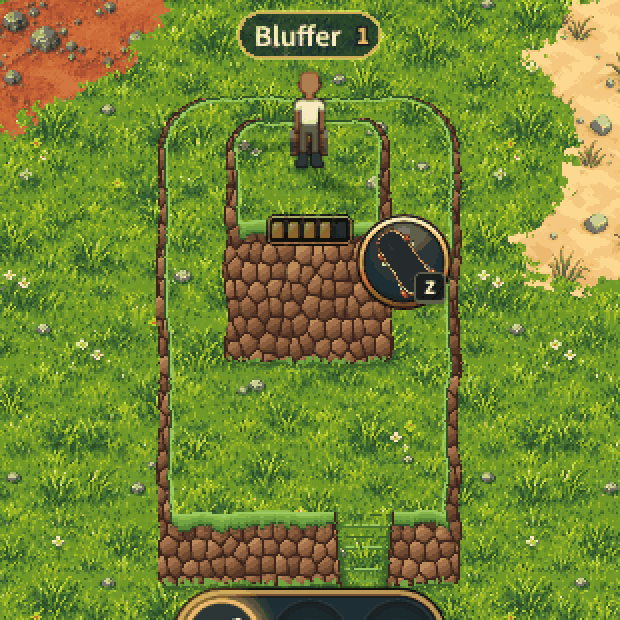
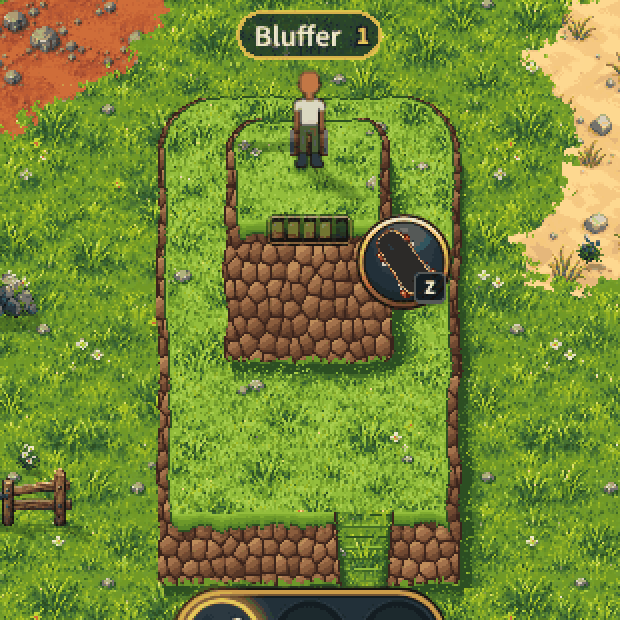
v2.3.4471: the Town Bluff's top lit, and the shade it casts (the owner: "it looks like it's a transparent on top")
The first grass ledge painted nothing on its top, so the top was the same
tone as the grass below it and read as see-through.  Now:
- risePaint takes most of a hill top's GRASS pixels up a tone (HILL_LIFT:
  7 blades in 10 on a rise on the ground, nearly all on one standing on
  another), in the commons grass's own measured tones.  Flowers and stones
  stay; the darkest tufts stay.
- hillCast: the hill casts shade on the lower ground east of it (up to
  26 px), and the foot's shade is 22 px and thicker.
- where a hill's face or rim draws nothing, the rise under it goes on
  (the ledge stands on the terrace's lit top).
No colour outside RISE_PALETTE: a piece of ground stays colour numbers.

Claude-Session: https://claude.ai/code/session_01LccHaiVDemmhEbxAJ4B2S9

diff --git a/public/tools/world/core/rises.js b/public/tools/world/core/rises.js
@@ -74,7 +74,10 @@ export function riseLayout(plan) {
     } else continue;
     const x0 = ox + rs.box[0], y0 = oy + rs.box[1], x1 = ox + rs.box[2], y1 = oy + rs.box[3];
     const face = rs.face | 0;
-    list.push({ id: rs.id, name: rs.name || rs.id, islet: where, look: rs.look || null, keepOut: rs.keepOut | 0, round: rs.round | 0, k: list.length,
+    /* v2.3.4471: how many rises up it stands (1 on the ground, 2 on another's top): a hill's top is lit
+       more the higher it is (risePaint's lift) */
+    const level = 1 + list.filter((q) => q.x0 <= x0 && q.y0 <= y0 && q.x1 >= x1 && q.y1 >= y1).length;
+    list.push({ id: rs.id, name: rs.name || rs.id, islet: where, level, look: rs.look || null, keepOut: rs.keepOut | 0, round: rs.round | 0, k: list.length,
       x0, y0, x1, y1, faceY0: y1 - face, face, h: face * cellG,
       climb: rs.climb ? { x0: ox + rs.climb[0], x1: ox + rs.climb[1] } : null,
       ramp: rs.ramp ? { x0: ox + rs.ramp[0], x1: ox + rs.ramp[1] } : null,
@@ -166,9 +169,13 @@ export const RISE_PALETTE = Object.freeze({
      every outline), under a thick cap of the commons' own short green grass (#86b94f) with its dark
      edge, and the shade it throws on the grass at its foot -- not the sea's dark rock */
   boulder: Object.freeze([[58, 36, 28], [86, 55, 39], [112, 73, 49], [138, 93, 61], [163, 114, 76], [188, 140, 96]]),
-  grass: Object.freeze([[70, 112, 46], [92, 140, 56], [114, 164, 66], [134, 185, 79], [156, 202, 96]]),
-  grassEdge: [48, 82, 38],
-  shade: Object.freeze([[62, 100, 42], [80, 122, 52]]),
+  /* (the grass's tones measured off the commons as the game lays it -- its body about (110, 152, 40), its
+     dark tufts (74, 115, 49) and (44, 78, 34) -- so the cap, the lit top and the shade are that grass's) */
+  grass: Object.freeze([[70, 112, 40], [88, 134, 40], [108, 152, 42], [128, 172, 48], [148, 190, 60]]),
+  grassEdge: [44, 78, 34],
+  /* v2.3.4471: the brightest blade of a hill's top, which stands in the light (risePaint's lift) */
+  grassLit: [168, 206, 78],
+  shade: Object.freeze([[44, 78, 34], [68, 108, 40]]),
 });
 
 const pick = (arr, v) => arr[Math.max(0, Math.min(arr.length - 1, Math.floor(v * arr.length)))];
@@ -189,14 +196,14 @@ export function risePaint(plan, data, ow, oh, X0, Y0, K, opts = {}) {
   const gxa = (X0 - F.x0) * wpa, gya = (Y0 - F.y0) * wpa;
   const gxb = gxa + (ow / K) * wpa, gyb = gya + (oh / K) * wpa;
   const LIFT = 34;   /* the chest and the lip draw a little above their cells */
-  const BELOW = 22;   /* v2.3.4462: a hill's shade falls a little below its foot */
-  if (gxb < L.x0 * c || gxa > (L.x0 + L.w) * c || gyb < L.y0 * c - LIFT || gya > (L.y0 + L.h) * c + BELOW) return 0;
+  const BELOW = 34;   /* v2.3.4462: a hill's shade falls a little below its foot */
+  if (gxb < L.x0 * c || gxa > (L.x0 + L.w) * c + HILL.CAST || gyb < L.y0 * c - LIFT || gya > (L.y0 + L.h) * c + BELOW) return 0;
   /* v2.3.4456: ...and near one rise in particular -- the grid is ONE box over every rise, and with a
      rise by the town and two on the islet that box is a strip a quarter of the Wheel long: a piece in it
      but near no rise has nothing to paint, and must not ask every pixel */
   let near = false;
   for (const r of L.list) {
-    if (gxb >= r.x0 * c && gxa <= r.x1 * c && gyb >= r.y0 * c - LIFT && gya <= r.y1 * c + BELOW) { near = true; break; }
+    if (gxb >= r.x0 * c && gxa <= r.x1 * c + HILL.CAST && gyb >= r.y0 * c - LIFT && gya <= r.y1 * c + BELOW) { near = true; break; }
   }
   if (!near) return 0;
   let n = 0;
@@ -207,7 +214,20 @@ export function risePaint(plan, data, ow, oh, X0, Y0, K, opts = {}) {
     for (let px = 0; px < ow; px++) {
       const gx = gxa + (px + 0.5) * step;
       const rgb = riseColour(L, gx, gy, seed);
-      if (rgb) set((py * ow + px) * 4, rgb);
+      if (!rgb) continue;
+      const o = (py * ow + px) * 4;
+      if (rgb.lift === undefined) { set(o, rgb); continue; }
+      /* v2.3.4471: A HILL'S TOP, LIT.  The owner, of the first grass ledge: "there's something wrong with
+         the grass on top.  It looks like it's a transparent on top of the elevated surface.  It needs
+         shadowing or something to look like a raised surface."  The top was the ground as laid, to the
+         pixel: the same tone as the grass below it.  It is still that ground (its flowers, its stones:
+         only a GRASS pixel is touched) with a share of its blades -- `lift`, more on a higher rise --
+         taken up a tone, three px tall each: raised ground standing in the light, against the shade it
+         throws below (hillCast).  No colour but the rises' own: a piece stays colour numbers. */
+      const G0 = data[o + 1];
+      if (G0 > data[o] + 10 && G0 > data[o + 2] + 10 && hash2(Math.floor(gx), Math.floor(gy / 3), seed + 91) < rgb.lift) {
+        if (G0 >= 100) set(o, G0 < 125 ? RISE_PALETTE.grass[2] : G0 < 140 ? RISE_PALETTE.grass[3] : G0 < 162 ? RISE_PALETTE.grass[4] : RISE_PALETTE.grassLit);   /* (its darkest tufts stay) */
+      }
     }
   }
   return n;
@@ -229,7 +249,9 @@ export function riseColour(L, gx, gy, seed) {
   for (let k = L.list.length - 1; k >= 0; k--) {
     const r = L.list[k];
     const hill = r.look === 'hill';
-    if (gx < r.x0 * c || gx >= r.x1 * c || gy < r.y0 * c - 8 || gy >= r.y1 * c + (hill ? 22 : 5)) continue;
+    if (gx < r.x0 * c || gx >= r.x1 * c + (hill ? HILL.CAST : 0) || gy < r.y0 * c - 8 || gy >= r.y1 * c + (hill ? 34 : 5)) continue;
+    /* v2.3.4471: east of a hill's box there is only the shade it casts */
+    if (gx >= r.x1 * c) { const sh = hillCast(r, c, gx, gy, seed); if (sh) return sh; continue; }
     const top = r.faceY0 * c;
     /* the lip's line: wandering 0-4 px over the face's top edge; the foot's,
        0-4 px past the face's last row onto the ground below (rubble), so
@@ -238,22 +260,39 @@ export function riseColour(L, gx, gy, seed) {
        phone): its lip up to 7 px into the top's front row, its foot up to 9 px onto the ground */
     const lip = hill ? top - 3.5 + 3.5 * valueNoise(gx * 0.045, 3.1, seed + r.k) : top - 2 + 2 * valueNoise(gx * 0.07, 3.1, seed + r.k);
     const foot = r.y1 * c + 2 + 2 * valueNoise(gx * 0.09, 5.3, seed + 7 + r.k) + (hill ? 2.5 + 2.5 * valueNoise(gx * 0.031, 8.8, seed + 9 + r.k) : 0);
-    if (gy >= lip && gy < foot) return hill ? hillFace(r, c, gx, gy, top, foot, lip, seed) : faceColour(r, c, gx, gy, top, foot, lip, seed);
-    /* v2.3.4462: a hill throws a little shade on the ground at its foot (what makes a bank stand UP on
-       flat grass): 11 px, thinning out, so it ends in the grass and not on a line */
-    if (hill && gy >= foot && gy < foot + 11) {
-      /* v2.3.4471: ...but none under a ramp (nothing stands over its foot) or past the cliff's round ends */
-      if (gx < r.x0 * c + 10 || gx >= r.x1 * c - 10 || (r.ramp && gx >= r.ramp.x0 * c + 5 && gx < r.ramp.x1 * c - 5)) continue;
-      const t = (gy - foot) / 11;
-      return hash2(Math.floor(gx), Math.floor(gy), seed + 41) > t * 0.95 ? RISE_PALETTE.shade[t < 0.45 ? 0 : 1] : null;
+    if (gy >= lip && gy < foot) {
+      if (!hill) return faceColour(r, c, gx, gy, top, foot, lip, seed);
+      /* v2.3.4471: where a hill's face draws nothing (past its round ends, on its ramp) the rise under
+         it goes on (the ledge stands on the terrace's lit top), in this one's cast shade if it is there */
+      const col = hillFace(r, c, gx, gy, top, foot, lip, seed) || hillCast(r, c, gx, gy, seed);
+      if (col) return col;
+      continue;
+    }
+    /* v2.3.4462: a hill throws shade on the ground at its foot (what makes a bank stand UP on flat
+       grass), thinning out, so it ends in the grass and not on a line.  v2.3.4471: 22 px of it and
+       thicker (it was 11, and faint), reaching a little east with the light from the north-west */
+    if (hill && gy >= foot && gy < foot + HILL.FOOT_SHADE) {
+      /* v2.3.4471: ...but none under a ramp (nothing stands over its foot) or west of the cliff's round end */
+      if (gx < r.x0 * c + 12 || (r.ramp && gx >= r.ramp.x0 * c + 5 && gx < r.ramp.x1 * c - 3)) continue;
+      const t = (gy - foot) / HILL.FOOT_SHADE;
+      if (hash2(Math.floor(gx), Math.floor(gy), seed + 41) > t * t * 0.9 + 0.04) return RISE_PALETTE.shade[t < 0.5 ? 0 : 1];
+      continue;
     }
     if (gy >= r.y1 * c) continue;
     if (gy < r.y0 * c) {
       /* above the north rim: the rim's back edge, a hair of rock */
       continue;
     }
-    if (inside(L, cx, cy, r)) return rimColour(r, c, gx, gy, seed);
-    return null;
+    if (inside(L, cx, cy, r)) {
+      if (!hill) return rimColour(r, c, gx, gy, seed);
+      /* v2.3.4471: outside a hill's drawn edge (hillRim draws nothing there) its cast shade, or the
+         rise under it */
+      const col = hillRim(r, c, gx, gy, seed) || hillCast(r, c, gx, gy, seed);
+      if (col) return col;
+      continue;
+    }
+    /* v2.3.4471: a hill's top: the ground as laid, lit (risePaint) */
+    return hill ? HILL_LIFT[Math.min(HILL_LIFT.length - 1, r.level - 1)] : null;
   }
   return null;
 }
@@ -347,7 +386,6 @@ function caveColour(r, c, gx, gy, foot, seed) {
 
 /* a rim: a low lip of the same rock, mossy on top, its outer edge outlined */
 function rimColour(r, c, gx, gy, seed) {
-  if (r.look === 'hill') return hillRim(r, c, gx, gy, seed);
   const g = valueNoise(gx * 0.27, gy * 0.27, seed + 51);
   const lit = valueNoise(gx * 0.05, gy * 0.05, seed + 53);
   /* the outer edge, one darker pixel: the west, east and north sides */
@@ -365,7 +403,11 @@ function rimColour(r, c, gx, gy, seed) {
    faces, shading, and grass overhangs -- not by changing the entire ground texture ... a single-height
    grassy bluff with a visible southern cliff face, irregular rocky edges, and one grassy ramp."
    (v2.3.4462's first try was a flat band of packed earth under a ruler-straight outline.)  So:
-     the TOP paints nothing: it is the ground as laid, the very grass around it;
+     the TOP is the ground as laid, the very grass around it -- LIT: the owner, of the first cut that
+       painted nothing there, "It looks like it's a transparent on top of the elevated surface.  It
+       needs shadowing or something to look like a raised surface": most of its grass's blades are a
+       tone lighter (risePaint's lift), and the hill casts shade on the lower ground east of it
+       (hillCast) and at its foot;
      the FACE is a cliff of rounded brown boulders, lit from above, dark in the gaps, under a thick
        CAP of grass whose blades hang over it, with the ground's own tufts standing in front of its
        foot and its shade on the grass below (riseColour);
@@ -377,7 +419,25 @@ function rimColour(r, c, gx, gy, seed) {
        laid again, the cliff's cut ends casting more shade the taller they stand.
    Painted in code like the rest (the sheet is "a visual design reference rather than a ...
    game-ready tile atlas": no picture is loaded), in RISE_PALETTE's own colours. */
-const HILL = Object.freeze({ GW: 16, GH: 20, WALL: 13, WALL_BACK: 5, CORNER: 14, FOOT_R: 10 });
+const HILL = Object.freeze({ GW: 16, GH: 20, WALL: 13, WALL_BACK: 5, CORNER: 14, FOOT_R: 10, CAST: 26, FOOT_SHADE: 22 });
+/* v2.3.4471: what riseColour answers for a hill's top -- not a colour but how much of the ground's own
+   grass risePaint takes up a tone there: seven blades in ten on a rise on the ground, nearly all on one
+   standing on another (told from a colour by its `lift`) */
+const HILL_LIFT = Object.freeze([Object.freeze({ lift: 0.7 }), Object.freeze({ lift: 0.92 })]);
+/* v2.3.4471: the shade a hill casts on the ground east of it (the light is from the north-west, as on
+   its boulders): up to HILL.CAST px out from its rock's east edge where it stands a face tall, less
+   toward the back where the wall is low, thinning to nothing.  null where there is none. */
+function hillCast(r, c, gx, gy, seed) {
+  /* (from below its round back corner, where the rock's edge is the straight one this measures from) */
+  const y0 = r.y0 * c + (r.round > 0 ? c * r.round - 12 : HILL.CORNER) + 4, y1 = r.y1 * c;
+  if (gy < y0 || gy >= y1 + 8) return null;
+  const out = hillEdge(r, 1, gy, seed) - (r.x1 * c - gx);
+  if (out <= 0) return null;
+  const s = Math.max(0, Math.min(1, (gy - y0) / Math.max(1, r.faceY0 * c - y0)));
+  const len = HILL.CAST * (0.3 + 0.7 * s) * Math.min(1, (gy - y0) / 24), t = out / Math.max(0.01, len);
+  if (t >= 1) return null;
+  return hash2(Math.floor(gx), Math.floor(gy), seed + 43) > t * t * 0.9 + 0.04 ? RISE_PALETTE.shade[t < 0.5 ? 0 : 1] : null;
+}
 /* where a hill's drawn edge is, px in from its box's side `side` (0 west, 1 east, 2 north) at `t` px
    along it: 1-9 px, wandering slowly, stepping a little from one boulder to the next, with a blade
    of grass or a stone's corner sticking out here and there.  (A phone shows a game px at under half
@@ -478,7 +538,7 @@ function hillRim(r, c, gx, gy, seed) {
   const R = r.round > 0 ? c * r.round - 12 : HILL.CORNER;
   let d = Math.min(side, gn), nx = side < gn ? 1 : 0;
   if (side < R && gn < R) { const ax = R - side, ay = R - gn, h = Math.hypot(ax, ay); d = R - h; nx = h > 0 ? ax / h : 0; }
-  if (d >= 5) return null;                   /* the top's own grass */
+  if (d >= 5) return HILL_LIFT[Math.min(HILL_LIFT.length - 1, r.level - 1)];   /* the top's own grass, lit */
   if (d >= 2) return RISE_PALETTE.grass[hash2(Math.floor(gx), Math.floor(gy), seed + 55) > 0.35 ? 4 : 3];   /* its lit edge */
   if (d >= 0) return RISE_PALETTE.grassEdge;
   /* outside the grass: the side's wall (west lit, east in shadow), thinning to nothing as the corner

diff --git a/docs/specs/rise-chest.md b/docs/specs/rise-chest.md
@@ -98,7 +98,15 @@ near BroTown).
   of the elevation identical to the surrounding grass tiles ... a single-height
   grassy bluff with a visible southern cliff face, irregular rocky edges, and
   one grassy ramp." A rise with `look: 'hill'` is now:
-  - its **top** nothing painted: the ground as laid, the same grass as round it;
+  - its **top** the ground as laid (the same grass, its flowers and stones),
+    **lit**: the first cut painted nothing there and the owner said "It looks
+    like it's a transparent on top of the elevated surface. It needs shadowing
+    or something to look like a raised surface." So `risePaint` takes most of
+    the top's grass pixels up a tone (`HILL_LIFT`: 7 blades in 10 on a rise on
+    the ground, nearly all on a rise standing on another), in the grass's own
+    measured tones, and the hill **casts shade** on the lower ground east of
+    it (`hillCast`, up to 26 px) and at its foot (22 px). No colour outside
+    `RISE_PALETTE`, so a piece of ground stays colour numbers;
   - its **face** a cliff of rounded brown boulders (lit from the upper left,
     dark in the gaps, darker toward the foot) under a thick **cap** of grass
     whose blades hang 10 to 21 px over it, the ground's own tufts standing in
